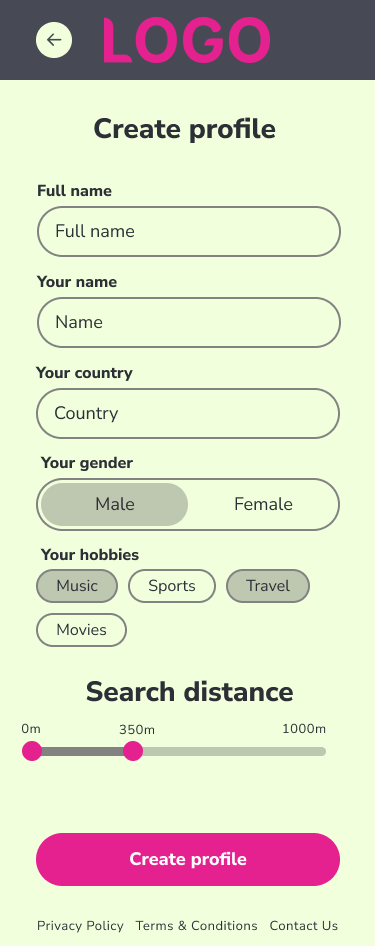
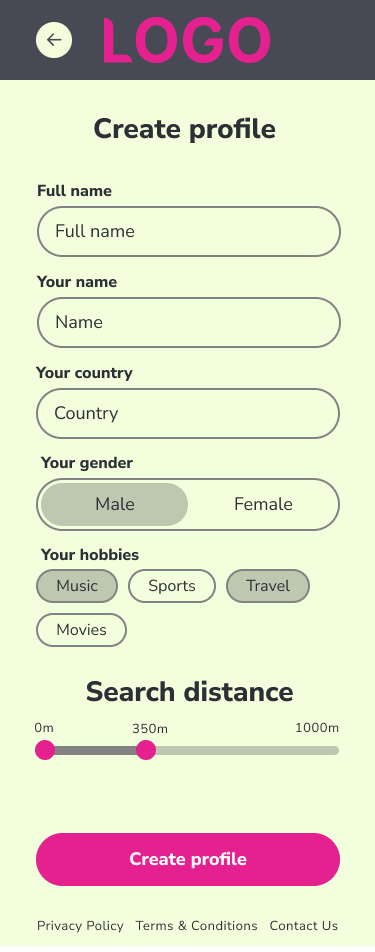
change svg img

Changed region(s): [[0.3227, 0.7616, 0.44, 0.8225], [0.0587, 0.7616, 0.1467, 0.8225], [0.7627, 0.7616, 0.9093, 0.792]]

diff --git a/css/style.min.css b/css/style.min.css
@@ -1,1 +1,1 @@
-@import"https://fonts.googleapis.com/css?family=Nunito+Sans:regular,800&display=swap";*{padding:0;margin:0;border:0}*,*:before,*:after{box-sizing:border-box}:focus,:active{outline:none}a:focus,a:active{outline:none}nav,footer,header,aside{display:block}html,body{height:100%;width:100%;line-height:1;font-size:1rem;-ms-text-size-adjust:100%;-moz-text-size-adjust:100%;-webkit-text-size-adjust:100%}input,button,textarea{font-family:inherit}input::-ms-clear{display:none}button{cursor:pointer}button::-moz-focus-inner{padding:0;border:0}a,a:visited{text-decoration:none}a:hover{text-decoration:none}ul li{list-style:none}img{vertical-align:top}h1,h2,h3,h4,h5,h6{font-size:inherit;font-weight:inherit}body{min-width:320px;font-family:"Nunito Sans",sans-serif;font-weight:800}button,a{font-family:"Nunito Sans",sans-serif}.container{max-width:344px;padding:0 20px;margin:0 auto}.button{font-weight:800;font-size:18px;text-align:center;color:#fff;background-color:#e5218f}.back{box-shadow:0px 4px 10px 0px rgba(0,0,0,.1);width:36px;height:36px}._scroll-block{position:fixed;width:100%;overflow-y:scroll}.popup-1{position:fixed;top:0;left:0;width:100%;height:100%;background-color:rgba(0,0,0,.8);display:flex;opacity:0;visibility:hidden;justify-content:center;align-items:center}.popup-1__close{position:absolute;background-color:rgba(0,0,0,0);top:16px;right:16px}.popup-1__close img{height:16px;width:16px;text-align:center}.popup-1__content{position:relative;background:#f2ffdc;padding:37px;width:304px;height:327px;border-radius:20px}.popup-1 h3{padding-top:2px;font-size:18px;line-height:1.31;text-align:center;color:#000}.popup-1 p{padding:11px 4px 0 4px;font-weight:400;font-size:16px;text-align:center;line-height:1.46}.popup-1__block-button{margin-top:18px;width:230px;height:53px;font-weight:800;font-size:18px;line-height:131%;text-align:center;color:#f2ffdc;border-radius:100px;background-color:#e5218f}.popup-1__close-button{margin-top:18px;width:230px;height:53px;font-weight:800;font-size:18px;line-height:131%;text-align:center;color:#e5218f;border:2px solid #e5218f;border-radius:100px}.popup-1._popup-open{visibility:visible;opacity:1}.header{background-color:#474a54}.header__container{display:flex;align-items:center;min-height:80px;justify-content:space-between;gap:10px}.header .back{display:block}.header__logo{display:block}.footer{margin-top:18px;min-height:45px;font-weight:400;font-size:13px;letter-spacing:.04em;text-align:center;display:flex;align-items:center}.start{min-height:100vh}.start__container{display:flex;flex-direction:column;justify-content:space-around;align-items:center}.start__photo{margin-top:75px;display:block;width:301px;height:354px}.start__logo{margin-top:75px}.start__desc{margin-top:71px}.start__button{margin-top:51px;margin-bottom:55px;display:block;width:304px;height:53px;border-radius:100px}.create-profile__title{margin-top:34px;font-size:28px;text-align:center;color:#2d2f36}.create-profile #createProfileForm{margin-top:39px}.create-profile input[type=text]{display:block;border:2px solid #828282;border-radius:100px;background:rgba(196,196,196,0);font-weight:400;font-size:18px;line-height:131%;color:#2d2f36;padding:13px 18px 11px 18px;width:304px;margin-top:3px}.create-profile label{display:block;margin-top:14px;color:#2d2f36;font-family:Nunito Sans;font-size:16px;font-weight:800;line-height:133.9%;text-align:left}.create-profile body,.create-profile html{-webkit-font-smoothing:antialiased}.create-profile fieldset{margin-top:14px;display:block;min-width:0}.create-profile fieldset legend{display:block;color:#2d2f36;font-family:Nunito Sans;font-size:16px;font-weight:800;line-height:133.9%;text-align:left}.create-profile fieldset legend+*{clear:both}.create-profile body:not(:-moz-handler-blocked) fieldset{display:table-cell}.create-profile .toggle{display:flex;flex-flow:row nowrap;justify-content:flex-start;align-items:stretch;border:2px solid #828282;border-radius:100px;width:304px}.create-profile .toggle input{width:0;height:0;position:absolute;left:-9999px}.create-profile .toggle input+label{width:calc(50% - 5px);padding:12px 0;position:relative;display:inline-block;font-size:18px;line-height:19px;font-weight:400;text-align:center;border-radius:25px;transition:border-color .15s ease-out,color .25s ease-out,background-color .15s ease-out,box-shadow .15s ease-out}.create-profile .toggle input+label:first-of-type{margin:5px 0 5px 5px}.create-profile .toggle input+label:last-of-type{margin:5px 5px 5px 0}.create-profile .toggle input:checked+label{height:43px;background-color:#bec7af;color:#2d2f36;z-index:1}.create-profile .toggle.checkbox{height:100%;border:none;flex-wrap:wrap}.create-profile .toggle.checkbox label{margin-top:0}.create-profile .toggle.checkbox input+label{font-size:16px;border:2px solid #828282;padding:8px 20px;width:auto;margin:0 10px 0 0;height:auto;line-height:112%}.create-profile .toggle.checkbox input+label:last-of-type{margin:10px 0 0 0}.create-profile .toggle.checkbox input:checked+label{height:auto;line-height:112%}.create-profile .search-distance{font-size:28px;text-align:center}.create-profile .slider-body{position:relative;margin-top:50px}.create-profile .slider-body .main{width:60%;margin:14% auto;position:relative}.create-profile .slider-body #slider{-webkit-appearance:none;width:100%;height:9px;border-radius:10px;background-color:#bec7af}.create-profile .slider-body #slider::-webkit-slider-thumb{-webkit-appearance:none;width:20px;height:20px;border-radius:100%;cursor:pointer;position:relative;z-index:3;background-color:#e5218f}.create-profile .slider-body .selectBtn{height:20px;width:20px;background-position:center;border-radius:100%;position:absolute;bottom:0;left:0}.create-profile .slider-body #selector{height:104px;width:48px;position:absolute;bottom:-20px;left:50%;transform:translateX(-50%);z-index:2}.create-profile .slider-body #selectValue{width:40px;height:30px;position:absolute;top:50px;text-align:center;line-height:13px;font-weight:400;font-size:13px;letter-spacing:.04em;text-align:center;color:#2d2f36}.create-profile .slider-body #progressBar{width:50%;height:9px;background:#828282;border-radius:10px;position:absolute;bottom:4px;left:0}.create-profile .slider-body #progressBar::before{position:absolute;content:"";width:20px;height:20px;left:0px;bottom:-6px;border-radius:100%;background-color:#e5218f;z-index:1}.create-profile .slider-body #min-value{position:absolute;left:0;top:-20px;display:inline;font-weight:400;font-size:13px;letter-spacing:.04em;text-align:center;color:#2d2f36}.create-profile .slider-body #max-value{display:inline;position:absolute;right:0;top:-20px;font-weight:400;font-size:13px;letter-spacing:.04em;text-align:center;color:#2d2f36}.all-members__container{max-width:365px}.all-members__body{display:flex;gap:30px 25px;flex-wrap:wrap;justify-content:space-between;margin-top:34px}.all-members__photo{position:relative;display:block;width:150px;height:158px;border-radius:20px 20px 0 0;overflow:hidden}.all-members__photo img{position:absolute;-o-object-fit:cover;object-fit:cover;width:100%;height:100%;top:0;right:0}.all-members__button{margin-top:5px}.all-members__chat-button{display:inline-block;font-weight:800;width:72px;height:30px;font-size:13px;line-height:30px;text-align:center;color:#fff;border-radius:100px;background-color:#e5218f}.all-members__chat-button::before{display:inline-block;content:"";background-image:url(/images/chat.svg);width:14px;height:13px;background-size:14px 13px;margin:0 5px -2px 0}.all-members__block-button{font-weight:800;width:72px;height:30px;font-size:13px;line-height:181%;text-align:center;color:#2d2f36;border-radius:100px;background-color:rgba(0,0,0,0);border:2px solid #e5218f}.all-members__block-button::before{display:inline-block;content:"";background-image:url(/images/block.svg);width:11px;height:11px;background-size:11px 11px;margin:0 5px -2px 0}.member__item{width:304px}.member__photo{position:relative;height:450px;margin-bottom:40px;margin-top:42px;z-index:-1}.member__photo img{display:block;position:absolute;-o-object-fit:cover;object-fit:cover;width:100%;height:100%;top:0;right:0;border-radius:20px}.member__chat-button{position:absolute;display:flex;justify-content:center;align-items:center;width:80px;height:80px;border-radius:100%;background-color:#e5218f;bottom:-40px;left:calc(50% - 40px)}.member__chat-button img{width:37px;height:34px}.member__block-button{margin-top:25px;border-radius:100px;width:304px;height:53px;background-color:rgba(0,0,0,0);border:2px solid #e5218f;font-weight:800;font-size:18px;line-height:131%;text-align:center;color:#e5218f}
+@import"https://fonts.googleapis.com/css?family=Nunito+Sans:regular,800&display=swap";*{padding:0;margin:0;border:0}*,*:before,*:after{box-sizing:border-box}:focus,:active{outline:none}a:focus,a:active{outline:none}nav,footer,header,aside{display:block}html,body{height:100%;width:100%;line-height:1;font-size:1rem;-ms-text-size-adjust:100%;-moz-text-size-adjust:100%;-webkit-text-size-adjust:100%}input,button,textarea{font-family:inherit}input::-ms-clear{display:none}button{cursor:pointer}button::-moz-focus-inner{padding:0;border:0}a,a:visited{text-decoration:none}a:hover{text-decoration:none}ul li{list-style:none}img{vertical-align:top}h1,h2,h3,h4,h5,h6{font-size:inherit;font-weight:inherit}body{min-width:320px;font-family:"Nunito Sans",sans-serif;font-weight:800}button,a{font-family:"Nunito Sans",sans-serif}.container{max-width:344px;padding:0 20px;margin:0 auto}.button{font-weight:800;font-size:18px;text-align:center;color:#fff;background-color:#e5218f}.back{box-shadow:0px 4px 10px 0px rgba(0,0,0,.1);width:36px;height:36px}._scroll-block{position:fixed;width:100%;overflow-y:scroll}.popup-1{position:fixed;top:0;left:0;width:100%;height:100%;background-color:rgba(0,0,0,.8);display:flex;opacity:0;visibility:hidden;justify-content:center;align-items:center}.popup-1__close{position:absolute;background-color:rgba(0,0,0,0);top:16px;right:16px}.popup-1__close img{height:16px;width:16px;text-align:center}.popup-1__content{position:relative;background:#f2ffdc;padding:37px;width:304px;height:327px;border-radius:20px}.popup-1 h3{padding-top:2px;font-size:18px;line-height:1.31;text-align:center;color:#000}.popup-1 p{padding:11px 4px 0 4px;font-weight:400;font-size:16px;text-align:center;line-height:1.46}.popup-1__block-button{margin-top:18px;width:230px;height:53px;font-weight:800;font-size:18px;line-height:131%;text-align:center;color:#f2ffdc;border-radius:100px;background-color:#e5218f}.popup-1__close-button{margin-top:18px;width:230px;height:53px;font-weight:800;font-size:18px;line-height:131%;text-align:center;color:#e5218f;border:2px solid #e5218f;border-radius:100px}.popup-1._popup-open{visibility:visible;opacity:1}.header{background-color:#474a54}.header__container{display:flex;align-items:center;min-height:80px;justify-content:flex-start;gap:32px}.header .back{display:block}.header__logo{display:block}.footer{margin-top:18px;min-height:45px;font-weight:400;font-size:13px;letter-spacing:.04em;text-align:center;display:flex;align-items:center}.start{min-height:100vh}.start__container{display:flex;flex-direction:column;justify-content:space-around;align-items:center}.start__photo{margin-top:75px;display:block;width:301px;height:354px}.start__logo{margin-top:75px}.start__desc{margin-top:71px}.start__button{margin-top:75px;display:block;width:304px;height:53px;border-radius:100px}.create-profile__title{margin-top:34px;font-size:28px;text-align:center;color:#2d2f36}.create-profile #createProfileForm{margin-top:39px}.create-profile input[type=text]{display:block;border:2px solid #828282;border-radius:100px;background:rgba(196,196,196,0);font-weight:400;font-size:18px;line-height:131%;color:#2d2f36;padding:13px 18px 11px 18px;width:304px;margin-top:3px}.create-profile label{display:block;margin-top:16px;color:#2d2f36;font-family:Nunito Sans;font-size:16px;font-weight:800;line-height:133.9%;text-align:left}.create-profile body,.create-profile html{-webkit-font-smoothing:antialiased}.create-profile fieldset{margin-top:14px;display:block;min-width:0}.create-profile fieldset legend{display:block;color:#2d2f36;font-family:Nunito Sans;font-size:16px;font-weight:800;line-height:133.9%;text-align:left;margin-bottom:4px}.create-profile fieldset legend+*{clear:both}.create-profile fieldset .legend-hobbies{margin-bottom:1px}.create-profile .fieldset-hobbies{margin-top:12px}.create-profile body:not(:-moz-handler-blocked) fieldset{display:table-cell}.create-profile .toggle{display:flex;flex-flow:row nowrap;justify-content:flex-start;align-items:stretch;border:2px solid #828282;border-radius:100px;width:304px}.create-profile .toggle input{width:0;height:0;position:absolute;left:-9999px}.create-profile .toggle input+label{width:calc(50% - 5px);padding:12px 0;position:relative;display:inline-block;font-size:18px;line-height:19px;font-weight:400;text-align:center;border-radius:25px;transition:border-color .15s ease-out,color .25s ease-out,background-color .15s ease-out,box-shadow .15s ease-out}.create-profile .toggle input+label:first-of-type{margin:5px 0 5px 5px}.create-profile .toggle input+label:last-of-type{margin:5px 5px 5px 0}.create-profile .toggle input:checked+label{height:43px;background-color:#bec7af;color:#2d2f36;z-index:1}.create-profile .toggle.checkbox{height:100%;border:none;flex-wrap:wrap}.create-profile .toggle.checkbox label{margin-top:0}.create-profile .toggle.checkbox input+label{font-size:16px;border:2px solid #828282;padding:8px 20px;width:auto;margin:0 10px 0 0;height:auto;line-height:112%}.create-profile .toggle.checkbox input+label:last-of-type{margin:6px 0 0 0}.create-profile .toggle.checkbox input:checked+label{height:auto;line-height:112%}.create-profile .search-distance{font-size:28px;text-align:center;margin-top:26px}.create-profile .slider-body{position:relative;margin-top:31px}.create-profile .slider-body .main{width:60%;margin:14% auto;position:relative}.create-profile .slider-body #slider{-webkit-appearance:none;width:100%;height:9px;border-radius:10px;background-color:#bec7af}.create-profile .slider-body #slider::-webkit-slider-thumb{-webkit-appearance:none;width:20px;height:20px;border-radius:100%;cursor:pointer;position:relative;z-index:3;background-color:#e5218f}.create-profile .slider-body .selectBtn{height:20px;width:20px;background-position:center;border-radius:100%;position:absolute;bottom:0;left:0}.create-profile .slider-body #selector{height:104px;width:48px;position:absolute;bottom:-18px;left:35%;transform:translateX(-20%);z-index:2}.create-profile .slider-body #selectValue{width:40px;height:30px;position:absolute;top:50px;text-align:center;line-height:13px;font-weight:400;font-size:13px;letter-spacing:.04em;text-align:center;color:#2d2f36}.create-profile .slider-body #progressBar{width:35%;height:9px;background:#828282;border-radius:10px;position:absolute;bottom:4px;left:0}.create-profile .slider-body #progressBar::before{position:absolute;content:"";width:20px;height:20px;left:0px;bottom:-6px;border-radius:100%;background-color:#e5218f;z-index:1}.create-profile .slider-body #min-value{position:absolute;left:0;top:-20px;display:inline;font-weight:400;font-size:13px;letter-spacing:.04em;text-align:center;color:#2d2f36}.create-profile .slider-body #max-value{display:inline;position:absolute;right:0;top:-20px;font-weight:400;font-size:13px;letter-spacing:.04em;text-align:center;color:#2d2f36}.all-members__container{max-width:365px}.all-members__body{display:flex;gap:30px 25px;flex-wrap:wrap;justify-content:space-between;margin-top:34px}.all-members__photo{position:relative;display:block;width:150px;height:158px;border-radius:20px 20px 0 0;overflow:hidden}.all-members__photo img{position:absolute;-o-object-fit:cover;object-fit:cover;width:100%;height:100%;top:0;right:0}.all-members__button{margin-top:5px}.all-members__chat-button{display:inline-block;font-weight:800;width:72px;height:30px;font-size:13px;line-height:30px;text-align:center;color:#fff;border-radius:100px;background-color:#e5218f}.all-members__chat-button::before{display:inline-block;content:"";background-image:url(/images/chat.svg);width:14px;height:13px;background-size:14px 13px;margin:0 5px -2px 0}.all-members__block-button{font-weight:800;width:72px;height:30px;font-size:13px;line-height:181%;text-align:center;color:#2d2f36;border-radius:100px;background-color:rgba(0,0,0,0);border:2px solid #e5218f}.all-members__block-button::before{display:inline-block;content:"";background-image:url(/images/block.svg);width:11px;height:11px;background-size:11px 11px;margin:0 5px -2px 0}.member__item{width:304px}.member__photo{position:relative;height:450px;margin-bottom:40px;margin-top:42px;z-index:-1}.member__photo img{display:block;position:absolute;-o-object-fit:cover;object-fit:cover;width:100%;height:100%;top:0;right:0;border-radius:20px}.member__chat-button{position:absolute;display:flex;justify-content:center;align-items:center;width:80px;height:80px;border-radius:100%;background-color:#e5218f;bottom:-40px;left:calc(50% - 40px)}.member__chat-button img{width:37px;height:34px}.member__block-button{margin-top:25px;border-radius:100px;width:304px;height:53px;background-color:rgba(0,0,0,0);border:2px solid #e5218f;font-weight:800;font-size:18px;line-height:131%;text-align:center;color:#e5218f}

diff --git a/css/style.css b/css/style.css
@@ -189,8 +189,8 @@ a {
   display: flex;
   align-items: center;
   min-height: 80px;
-  justify-content: space-between;
-  gap: 10px;
+  justify-content: flex-start;
+  gap: 32px;
 }
 .header .back {
   display: block;
@@ -232,8 +232,7 @@ a {
   margin-top: 71px;
 }
 .start__button {
-  margin-top: 51px;
-  margin-bottom: 55px;
+  margin-top: 75px;
   display: block;
   width: 304px;
   height: 53px;
@@ -270,7 +269,7 @@ a {
 }
 .create-profile label {
   display: block;
-  margin-top: 14px;
+  margin-top: 16px;
   color: rgb(45, 47, 54);
   font-family: Nunito Sans;
   font-size: 16px;
@@ -295,9 +294,16 @@ a {
   font-weight: 800;
   line-height: 133.9%;
   text-align: left;
+  margin-bottom: 4px;
 }
 .create-profile fieldset legend + * {
   clear: both;
+}
+.create-profile fieldset .legend-hobbies {
+  margin-bottom: 1px;
+}
+.create-profile .fieldset-hobbies {
+  margin-top: 12px;
 }
 .create-profile body:not(:-moz-handler-blocked) fieldset {
   display: table-cell;
@@ -359,7 +365,7 @@ a {
   line-height: 112%;
 }
 .create-profile .toggle.checkbox input + label:last-of-type {
-  margin: 10px 0 0 0;
+  margin: 6px 0 0 0;
 }
 .create-profile .toggle.checkbox input:checked + label {
   height: auto;
@@ -368,10 +374,11 @@ a {
 .create-profile .search-distance {
   font-size: 28px;
   text-align: center;
+  margin-top: 26px;
 }
 .create-profile .slider-body {
   position: relative;
-  margin-top: 50px;
+  margin-top: 31px;
   /* Design slider button */
 }
 .create-profile .slider-body .main {
@@ -409,9 +416,9 @@ a {
   height: 104px;
   width: 48px;
   position: absolute;
-  bottom: -20px;
-  left: 50%;
-  transform: translateX(-50%);
+  bottom: -18px;
+  left: 35%;
+  transform: translateX(-20%);
   z-index: 2;
 }
 .create-profile .slider-body #selectValue {
@@ -428,7 +435,7 @@ a {
   color: #2d2f36;
 }
 .create-profile .slider-body #progressBar {
-  width: 50%;
+  width: 35%;
   height: 9px;
   background: #828282;
   border-radius: 10px;

diff --git a/page-2.html b/page-2.html
@@ -43,9 +43,9 @@
 							<label for="female">Female</label>
 						</div>
 					</fieldset>
-					<fieldset>
+					<fieldset class="fieldset-hobbies">
 
-						<legend>Your hobbies</legend>
+						<legend class="legend-hobbies">Your hobbies</legend>
 						<div class="toggle checkbox">
 
 							<input type="checkbox" name="music" value="music" id="music" checked="checked" />
@@ -67,9 +67,9 @@
 
 
 					<div class="slider-body">
-						<input type="range" min="0" max="1000" step="1" value="500" id="slider">
-							<div id="min-value">0</div>
-							<div id="max-value">1000</div>
+						<input type="range" min="0" max="1000" step="1" value="350" id="slider">
+							<div id="min-value">0m</div>
+							<div id="max-value">1000m</div>
 						<div id="selector">
 							<div class="selectBtn"></div>			
 							<div id="selectValue"></div>
@@ -93,7 +93,14 @@
 
 	</main>
 
-	<div class="footer"></div>
+	<div class="footer">
+
+
+		<div class="footer__container container">
+
+			<p>Privacy Policy Terms & Conditions Contact Us</p>
+		</div>
+	</div>
 
 
 
@@ -109,10 +116,21 @@
 		let selectValue = document.getElementById('selectValue')
 		let progressBar = document.getElementById('progressBar')
 
-		selectValue.innerHTML = slider.value
+
+		
+		selectValue.innerHTML = slider.value + 'm';
+
+		
+		
 
 		slider.oninput = function () {
-			selectValue.innerHTML = this.value
+			selectValue.innerHTML = this.value + 'm';
+			if (this.value > 700) {
+				selectValue.style.transform = 'translateX(-93%)';
+			} else {
+				selectValue.style.transform = 'translateX(0)';
+			}
+			
 			selector.style.left = this.value / 10 + '%'
 			progressBar.style.width = this.value / 10  + '%'
 			
